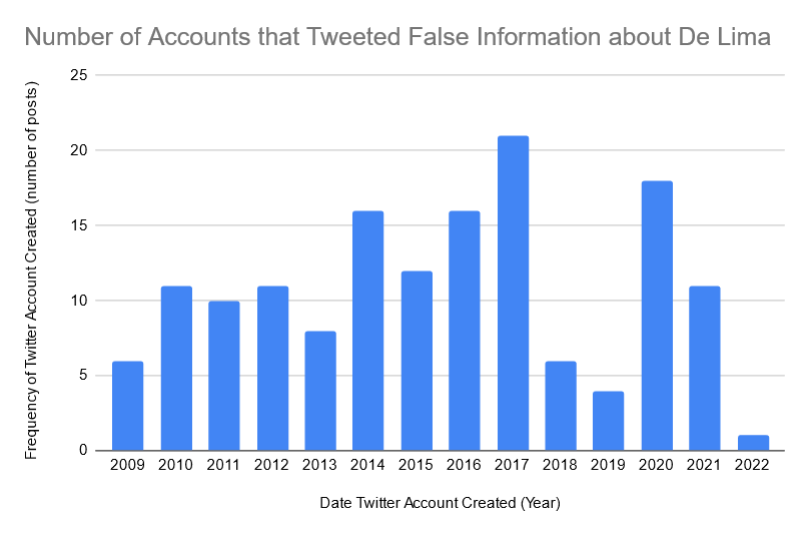
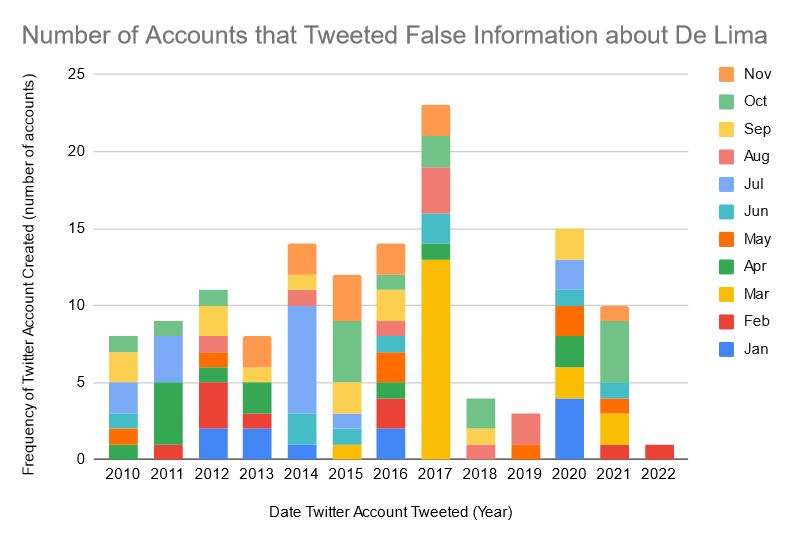
Added other preprocessing techniques

diff --git a/index.html b/index.html
@@ -224,42 +224,62 @@
 						<div class="col-6 col-6-medium col-12-small">
 							<article class="box style2">
 								<!--<a href="#" class="image featured"><img src="images/pic02.jpg" alt="" /></a>-->
+								<h3><a href="#">Data Preprocessing</a></h3>
+								<p>For our data exploration, we analyzed a time series dataset of tweets collected between 2016 and 2022 which contains misinformation about De Lima. We used this to see if there is a relationship between the frequency of misinforming tweets and the current events that concerned De Lima’s alleged connection to drug lords. To prepare the gathered dataset for analysis, we have done the following preprocessing steps:</p>
+
+								<p><b>Handling missing values</b></p>
+								<p>Since we mainly use date in the data exploration, we will only check the date of the tweet posted and the date of the account created. This is not an issue as Twitter automatically attaches the timestamp with the tweet itself. Twitter also shows publicly when you joined Twitter. However, Twitter does not show the day when you joined Twitter. To handle this, we only took account the month and year of the tweet posted to stay consistent with the other date.</p>
+
+								<p><b>Handling outliers</b></p>
+								<p>We removed outliers in the data especially with tweets that managed to sneak in that have dates outside 2016-2022. We used the Find method in Google Sheets if there are tweets outside in the allowed range. We have also computed the standard deviation to check if there are tweets that are 3 standard deviations away from the mean. If there is such data, we will remove the outlying data.</p>
+
+								<p><b>Ensuring Data Consistency</b></p>
+								<p>We checked the dates if there are dates that have other date formats (MM/DD/YY instead of DD/MM/YY). If there are we simply switch the format to the intended date format.</p>
+							</article>	
+						</div>
+						<div class="col-6 col-6-medium col-12-small">
+							<article class="box style2">
 								<h3><a href="#">Normalization and Stadardization</a></h3>
-								
-								<p>The goal of this data exploration is to analyze a time series dataset of tweets collected between 2016 and 2022. We will delve into the relationship between the frequency of tweets and historical data in the Philippines. To prepare the dataset for analysis, several preprocessing steps were performed, including conversion of date formats, normalization, and standardization.</p>
 								<p><b>Data Conversion:</b></p>
-								<p><b>a. Month:</b> The month component was extracted from the timestamps, enabling analysis of monthly trends or seasonality.</p>
+								<p>We have extracted the month and year of dates via MID(index, length_of_substring) command in Google Sheets which gets a substring from our string and VALUE(str) which converts a string to a number if possible.We then converted the data to be a float by Year + Month/12 so we can treat it as a number we can graph, and we can make sense of.	</p>
 
-
-								<p><b>b. Year:</b> The year of each tweet was extracted, allowing examination of the data's temporal distribution over the years.</p>
+								<p><b>a. Month:</b> Month has been extracted via MID(4, 2) which gets the character 4 to 5.</p>
+								<p><b>b. Year:</b> Year has been extracted via MID(7, 2) which gets the character 7 to 8.</p>
+								<p><i>Note: Timestamp has DD/MM/YY so MM is characters 4 and 5 while YY is characters 7 and 8.</i></p>
+								<br>
 								<p><b>Normalization and Standardization:</b>
-									<br><br>To ensure meaningful comparisons and accurate analysis, the dataset underwent normalization and standardization processes:
+									<br><br>We normalized and standardized our dataset so we can compare our data much easier:
+									<br><br><b>a. Normalization:</b> The tweet date has been normalized from 0 to 1, where 0 is the oldest and 1 is the highest. This allows us to easily see if there’s an outlier since we reduced our range to 0 and 1.
 									
-									<br><br><b>a. Normalization:</b> The tweet frequency data was normalized to a specific range, typically between 0 and 1. This scaling technique helps maintain the relative relationships between different tweet frequencies, facilitating comparisons across variables or units.
-									
-									<br><br><b>b. Standardization:</b> To address variations in means and variances, standardization was applied. The tweet frequency values were transformed to have a mean of 0 and a standard deviation of 1. Standardization facilitates comparison and analysis by ensuring a common scale across the dataset.</p>
+									<br><br><b>b. Standardization:</b> The tweet date has been standardized to see if there are outliers in the dataset. If a data is 3 standard deviations away from the mean, we will remove the data from our dataset.</p>
 							</article>
 						</div>
 						<div class="col-6 col-6-medium col-12-small">
 							<article class="box style2">
 								<!--<a href="#" class="image featured"><img src="images/pic01.jpg" alt="" /></a>-->
 								<h3><a href="#">Linear Interpolation</a></h3>
-								<p>Interpolation was applied to estimate missing values within the time series dataset. The interpolation method helps to fill gaps or missing data points and maintain the continuity of the time series:
+								<p>Interpolation was used to take account for the missing values in the time series dataset. This allows us to see the time as a continuous value rather than scattered dots along the graph:
 
+									<br><br><b>a. Importance of Interpolation:</b> Using interpolation is important as we can estimate the missing values in the dataset due to data collection issues or gaps in the time series. By doing this, we can have a much more continuous dataset.
+									<br><br><b>b. Methodology:</b> We used linear interpolation to estimate the missing values by checking the neighboring data points. We used matplotlib.pyplot and numpy to do linear interpolation and display the graph for us.</p>
+
+<<<<<<< HEAD
+=======
 									<br><br><b>a. Importance of Interpolation:</b> Missing values within the dataset can occur due to various reasons, such as data collection issues or gaps in the time series. By performing interpolation, we estimate the missing values based on the neighboring data points, ensuring a more complete and continuous dataset.
 								
 									<br><br><b>b. Methodology:</b> We utilized linear interpolation to estimate the missing values. These methods consider the patterns and trends in the existing data to provide reliable estimates for the missing data points.</p>
+>>>>>>> main
 							</article>
 						</div>
 						<div class="col-6 col-6-medium col-12-small">
 							<article class="box style2">
 								<!--<a href="#" class="image featured"><img src="images/pic02.jpg" alt="" /></a>-->
 								<h3><a href="#">Binning</a></h3>
-								<p>Binning, or discretization, was employed to group the time series data into quarters of each year, covering the period from 2016 to 2022:
+								<p>We used binning to group the time series data into months from 2016 to 2022:
 
-									<br><br><b>a. Purpose of Binning:</b> Binning helps simplify the data and facilitates the analysis of trends and patterns within specific time intervals. By grouping the data into quarters, we can gain insights into the seasonality or temporal patterns of tweet frequency throughout the years.
+									<br><br><b>a. Purpose of Binning:</b> Binning allows us to easily find trends and patterns in the data. Since we grouped the data into months, we can see what months have the highest or lowest frequency from 2016 to 2022.
 									
-									<br><br><b>b. Methodology:</b> We divided the dataset into four bins for each year, representing the quarters (Q1, Q2, Q3, Q4). This binning approach allows for a more granular analysis, enabling us to examine the variation in tweet frequency across different quarters of each year.</p>
+									<br><br><b>b. Methodology:</b> We divided the dataset into 12 months per year. We figured that this will allow us to connect the dots between misinformation surge and current events about De Lima without having the bin to be too small and having the divided dataset to be too large to analyze more in-depth.								</p>
 							</article>
 						</div>
 					</div>
@@ -271,11 +291,21 @@
 								The data exploration suggests that there is a possible relationship between the dates the misinformation tweets are posted and historical data. Here are some notable timeline in Leila De Lima's drug case:
 								
 								<br><br><b>July 13, 2016</b> – De Lima filed a senate resolution initiating a probe into alleged extrajudicial killings that began since Duterte took office and believed to be related to his administration's war on drugs. 
+<<<<<<< HEAD
+								<br><br><b>August 17, 2016</b> – Duterte confirmed De Lima was the person he was referring to in a previous briefing—when he said a lady senator had a driver/lover who had collected drug money to fund her campaign.
+								<br><br><b>August 20, 2016</b> – De Lima said she is willing to resign and to be shot in front of Duterte if the drug allegations against here are proven true. She added that she received reports from "credible sources" that during the elections that year, some convicts in the national penitentiary were asked to testify against her and implicate her in the illegal drug trade.
+								<br><br><b>September 15, 2016</b> – De Lima presented Edgar Matobato, who claims to be a former member of the 'Davao Death Squad'. Matobato linked Duterte to the killings perpetrated by the vigilante group—an allegation Malacanang vehemently denied. 
+								<br><br><b>February 24, 2017</b> – De Lima was arrested and detained at the Philippine National Police Headquarters in Camp Crame, Quezon City. 
+								<br><br><b>March 16 and July 19, 2017</b> – De Lima’s case caught international attention as the European Parliament called for her immediate release. In July, a 12-member delegation from EU visited De Lima at the PNP Custodial Center in Camp Crame.
+								<br><br><b>July 18, 2019</b> – The PNP-Criminal Investigation and Detection Group filed a complaint against key opposition figures, including De Lima, for inciting sedition over their supposed involvement in viral videos linking the Duterte family to drugs.
+								<br><br> Source: <i><a href ="http://www.cnnphilippines.com/news/2021/3/16/TIMELINE-Leila-De-Lima-arrest-prison-.html">CNN Philippines</a></i>
+=======
 								<br><br><b>September 15, 2016</b> – De Lima presented Edgar Matobato, who claims to be a former member of the 'Davao Death Squad'. Matobato linked Duterte to the killings perpetrated by the vigilante group—an allegation Malacanang vehemently denied. 
 								<br><br><b>February 24, 2017</b> – De Lima was arrested and detained at the Philippine National Police Headquarters in Camp Crame, Quezon City. 
 								<br><br><b>July 18, 2019</b> – The PNP-Criminal Investigation and Detection Group filed a complaint against key opposition figures, including De Lima, for inciting sedition over their supposed involvement in viral videos linking the Duterte family to drugs.
 								<br><br><b>February 2022</b> - Election Campaign season where De Lima runs for Senator.
 								<br><br> Source: CNN Philippines
+>>>>>>> main
 							</p>
 						</article>
 					</div>
@@ -283,13 +313,49 @@
 						<article class="box style2">
 							<!--<a href="#" class="image featured"><img src="images/pic02.jpg" alt="" /></a>-->
 							<h3><a href="#">Visualization</a></h3>
+<<<<<<< HEAD
+							<p><b>Number of Tweets Containing False Information about De Lima:</b></p>
+							<img src="bar.png">
+							<br>
+							We have recorded the number of tweets spreading misinformation against Leila De Lima from our sample. Then, we created a graph to visualize the frequency of misinforming tweets per year, though we further divide the bars by months and indicate what month it is based on the color listed on the legends.
+							<br>
+							<br>
+							Upon visual inspection, the month with the highest frequency of misinformation is March 2017. Usually, we treat this as an outlier but this has not been changed because of our hypothesis that sees if an event happened or a news reported which led to a misinformation surge in Twitter.
+							<br>
+							<br>
+							This lines up with our initial hypothesis because Leila De Lima was arrested on February 24, 2017 and De Lima’s case has caught the attention of the European Parliament on March 16, 2017. The second mode, August 2016, also lines up with our initial hypothesis because this was the time where Duterte accused De Lima of having connections with drugs, which happened on August 17, 2016.
+							<br>
+							<br>
+							<p><b>Number of Accounts that Tweeted False Information about De Lima:</b></p>
+							<img src="bar2.png">
+							<br>
+							Upon visual inspection, there is an insignificant difference in amount between the accounts created that spread information between 2009-2015 and 2016-2022. However, the mode of the frequency of accounts created is March 2017 which is also the mode of the frequency of the misinforming tweets.
+=======
 							<p><b>Linear interpolation:</b></p>
 							<img src="interpolation.png">
+>>>>>>> main
 							<br>
 							<br>
 							<p><b>The Correlation between the Date of Tweets and the Date of Account Created:</b></p>
 							<img src="scatter_plot.png">
 							<br>
+<<<<<<< HEAD
+							Due to modes lining up in the frequency of tweets to the frequency of accounts created, we have plotted the creation date of the misinforming tweet against the creation date of the account spreading misinformation to see if there is a surge of new Twitter accounts to increase the volume of misinformation that have been spread. However, upon visual inspection on the graph, old accounts, or accounts made before 2016, have also spread misinformation.
+							<br>
+							<br>
+							Regardless of the insight gained from the visual inspection, we computed the Pearson correlation of the two variables which is r = 0.512 <a href = "https://www.statisticssolutions.com/free-resources/directory-of-statistical-analyses/pearsons-correlation-coefficient/">(high degree)</a>. This means that despite there being several old accounts spreading misinformation, there is still a significant amount of new accounts made to spread misinformation.							
+							<br>
+							<br>
+							<p><b>Linear interpolation:</b></p>
+							<img src="interpolation.png">
+							<br>
+							We have used matplotlib.pyplot to plot the result of linear interpolation from numpy.
+							<br>
+							<br>
+						</article>
+					</div>
+				</div>
+=======
 							<br>
 							<p><b>Number of Tweets Containing False information about De Lima:</b></p>
 							<img src="bar.png">
@@ -304,6 +370,7 @@
 					
 				
 
+>>>>>>> main
 				</div>
 			</article>
 
